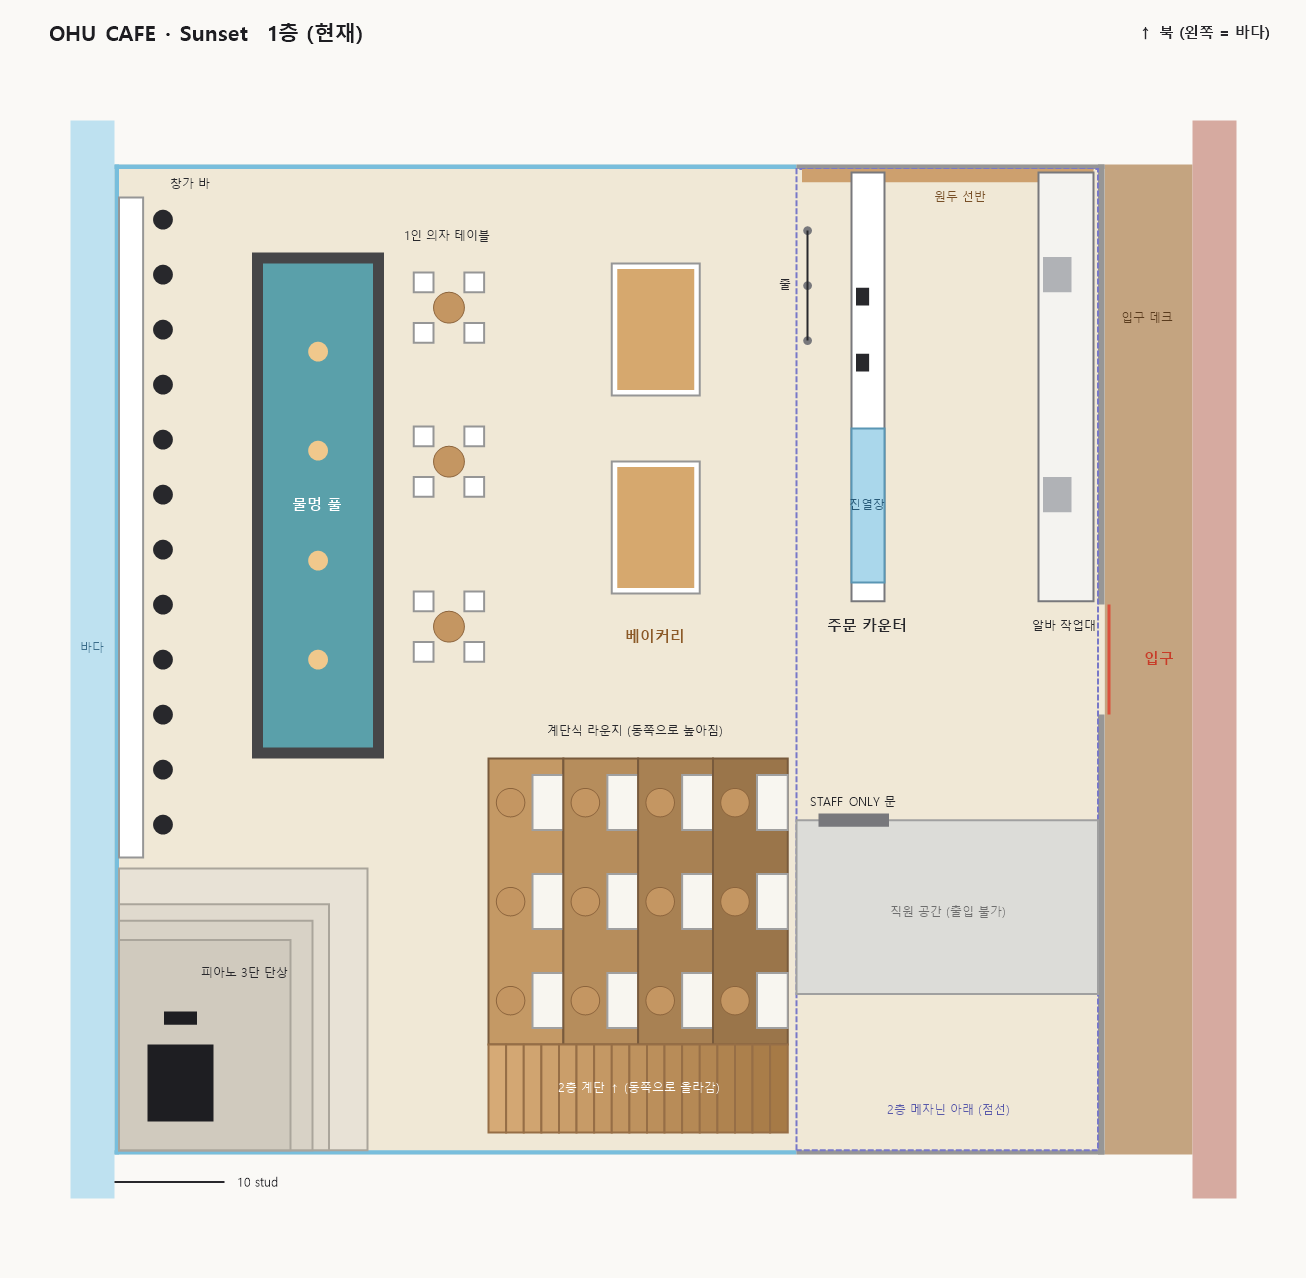
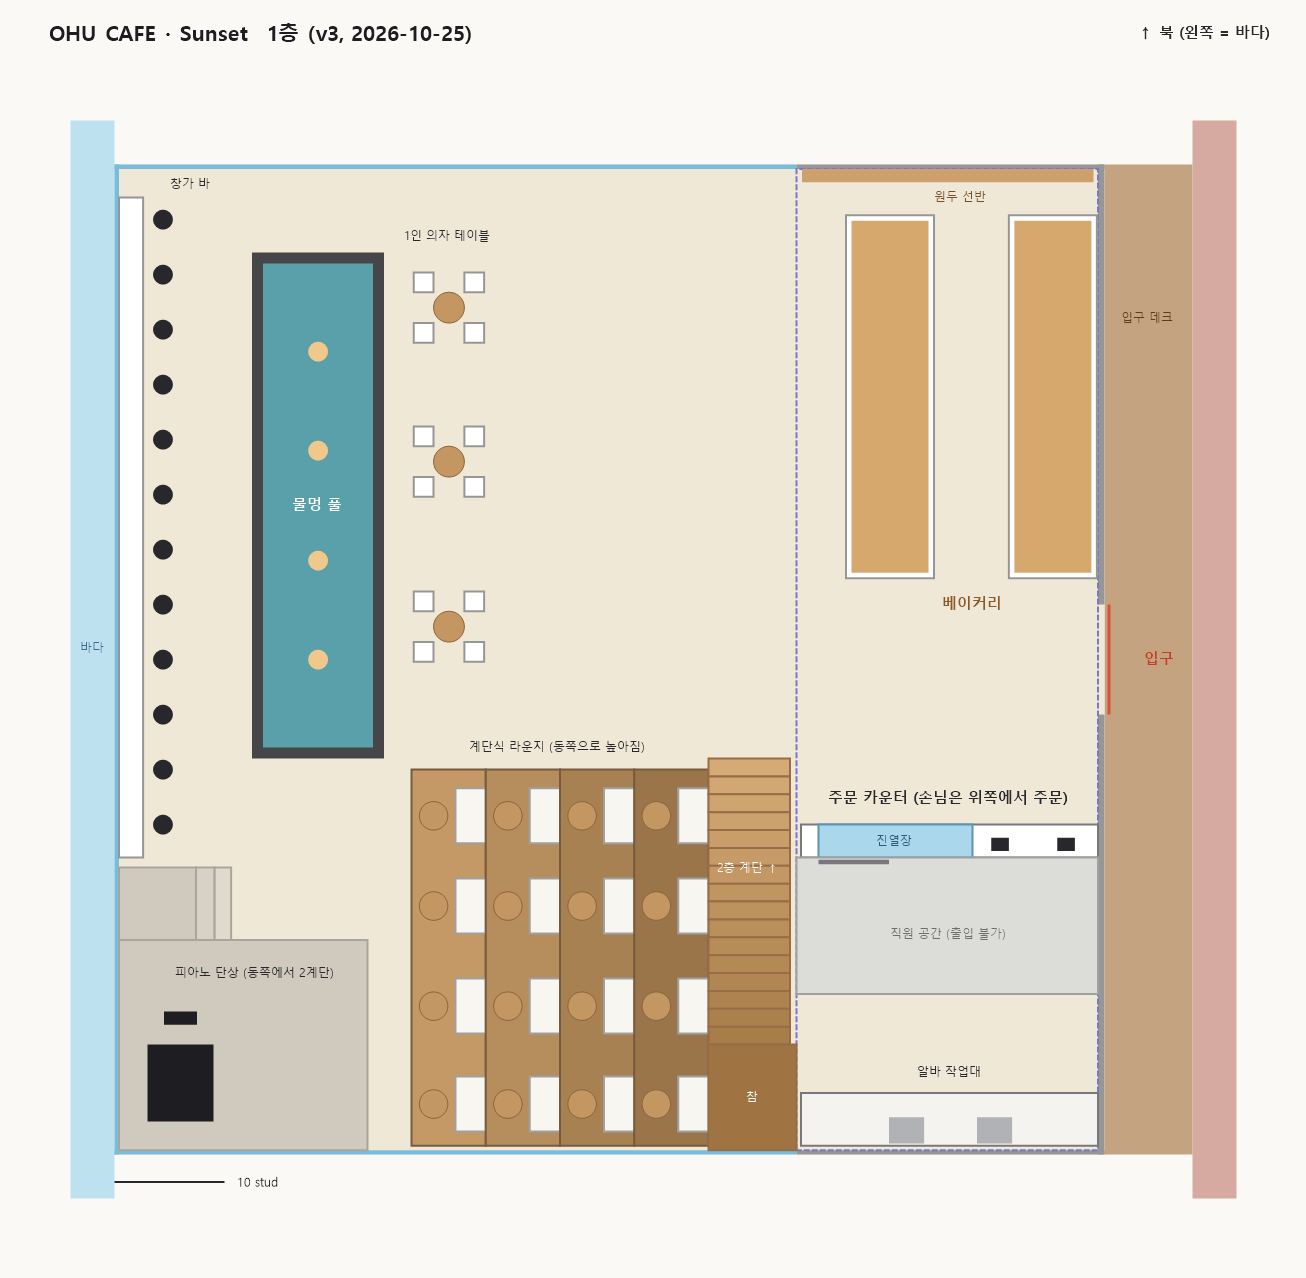
Beach cafe 1F layout v3 from the user's plan (D-229)

diff --git a/docs/06_LOG/PROGRESS_BY_DATE.md b/docs/06_LOG/PROGRESS_BY_DATE.md
@@ -90,7 +90,7 @@
 - 놀이공원 앞 도시 공원 다듬기(D-183~D-202), 놀이공원 동쪽 벽을 인도 밖으로: 정문 양옆 벽 축소, 정문·공원 계단 4 서쪽 이동, 놀이터 이동(D-203). 공원 윗땅을 인도 높이로 올리고 보도블록 무늬, 3번 출구를 인도 높이로 올리고 구멍 정리(D-204). 공원 계단·아랫바닥도 보도블록, 서쪽 긴 화단 삭제, 가운데 원 0.5 더 낮추고 계단 고리(D-205). 분수 자리 구덩이, 아랫바닥 흰 회색, 옆벽 보도블록, 나무 이음새, 파라솔 삭제(D-206). 클럽 내부 검은 대리석, 땅과 벽 겹침 번쩍거림 수정, 2층 별 천장 삭제(D-207). 모바일 2인 전체 기능 테스트 통과(버스 클릭·📸 실제 저장은 기기 확인 필요), 성능 검토 PERFORMANCE.md §9. 성능 최적화 1차: 간판 합치기·그림자·터치(파트 17,180→14,628, GUI 1,460→534), VIP 구매 창 자동 닫기(D-208). 광화문 이음줄·기와 줄과 공원 충돌 줄 합치기(광화문 1,144→524, 충돌 352→231, D-209). 놀이공원 서쪽 벽 밑 맨땅을 보도블록으로(D-210). 자작나무 줄기 이미지 빼고 기본 나무 재질(D-211).
 
 ## 2026-10-25
-- 클럽 엘리베이터 칸 회색 철판·손잡이·버튼(D-213). 문 위 글자판 삭제, 호출 버튼(D-214). 해변 카페 테이크아웃 창 삭제, 상아색 대리석 바닥(D-216). 스태프 문 삭제, 카운터 왼쪽 벽에 붙임(D-217). 빵 진열장 유리·방향(D-218). 4번 출구 해변 방향·편의점 서쪽 이동(D-219). 편의점 남쪽 끝까지 이동, 해변 쪽 작은 도로 삭제(D-220). 해변 카페 1층 배치 v2(D-221). 피아노 3단 단상(D-222). 피아노 바다 쪽·계단 반, 가건물 편의점과 선 맞춤(D-223). 바다 파스텔 고무오리, 클럽 배치도(D-226). 고무오리 1/8, 카페 1·2층 배치도(D-227). 오리가 실제 수면에 떠서 사람이 밀면 밀림(D-228). `feat/park-wall-1024`
+- 클럽 엘리베이터 칸 회색 철판·손잡이·버튼(D-213). 문 위 글자판 삭제, 호출 버튼(D-214). 해변 카페 테이크아웃 창 삭제, 상아색 대리석 바닥(D-216). 스태프 문 삭제, 카운터 왼쪽 벽에 붙임(D-217). 빵 진열장 유리·방향(D-218). 4번 출구 해변 방향·편의점 서쪽 이동(D-219). 편의점 남쪽 끝까지 이동, 해변 쪽 작은 도로 삭제(D-220). 해변 카페 1층 배치 v2(D-221). 피아노 3단 단상(D-222). 피아노 바다 쪽·계단 반, 가건물 편의점과 선 맞춤(D-223). 바다 파스텔 고무오리, 클럽 배치도(D-226). 고무오리 1/8, 카페 1·2층 배치도(D-227). 오리가 실제 수면에 떠서 사람이 밀면 밀림(D-228). 카페 1층 배치 v3(D-229). `feat/park-wall-1024`
 
 ## 지금 상태 (2026-10-23 끝)
 - **브랜치:** `feat/art-realistic-1022`. 푸시했고, 아직 병합하지 않았습니다.

diff --git a/docs/06_LOG/DECISIONS.md b/docs/06_LOG/DECISIONS.md
@@ -415,3 +415,5 @@ D-226 — (2026-10-25) Sea rubber ducks use Creator Store duck 284286111 (user p
 D-227 — (2026-10-25) Sea rubber ducks at 1/8 of the D-226 size (about 0.3-0.5 studs); the duck's CFrame is set again after parenting (a resized small union kept its old origin, so the drift moved it far away). Beach cafe 1F (current v2) and 2F mezzanine plan images: docs/02_WORLDS/images/beach_cafe_1F_plan.png, beach_cafe_2F_plan.png.
 
 D-228 — (2026-10-25) Rubber ducks float on the real sea surface and can be pushed (user: "바다에 떠다니는 것처럼, 사람이 밀면 밀리고 파도 따라"). The sea top is y -4 (terrain water), not the Base y -2.4, so they hovered. ParkRidesController moves each FloatDeco on the client: water height from a raycast (retried until the sea streams in), pivot reset under the duck body (the tiny union sat 3.2 studs off its pivot, so rocking swung it up and down), a weak pull toward its old drift path (the waves), any character within 2.4 studs pushes it out and along with its speed, damping, bounce back toward Base when it reaches the sand, slow turn toward where it floats. No network: each client runs it from the characters it sees.
+
+D-229 — (2026-10-25) Beach cafe 1F layout v3 from the user's edited plan (docs/02_WORLDS/images/beach_cafe_1F_plan_v3_user.png): two long bakery tables (8 x 33) where the counters were; the order counter turned across the room at z 76..79 right in front of the staff zone (pastry case west, tills east, customers order from the north), menu boards and ORDER & PICK UP sign moved onto the staff wall above it, queue posts removed; the 알바 work bench (BackCounter) along the north wall under the mezzanine (z 100.4..105.2); the stairs one straight flight along the staff wall (z 70 → 96, 16 steps) to a landing at the north glass that steps onto the mezzanine, glass rail on the lounge side; the lounge moved west to x -269 and down to the north glass with a fourth row; the piano stage fills the corner from z 86.5 with a block by the sea glass to z 79.9 and two 0.8 steps up from the east. Open: the work bench area is closed in (staff wall z 91.4, landing, outer walls), so the job counter cannot be reached yet.

diff --git a/docs/06_LOG/WORKLOG.md b/docs/06_LOG/WORKLOG.md
@@ -1245,3 +1245,20 @@ See ISSUE-MOBILE-001: 7 layout fixes, synced to Studio. The running test session
 | 전 | 후 |
 |---|---|
 | ![](images/2026-10-25/duck_hovering_before.png) | ![](images/2026-10-25/duck_on_water.jpg) |
+
+### 추가 (D-229) — 해변 카페 1층 배치 v3 (사용자 수정 배치도대로)
+- 베이커리: 카운터가 있던 자리에 긴 테이블 2개(8×33).
+- 주문 카운터: 직원 공간 바로 앞에 가로로(진열장 왼쪽, 계산대 오른쪽). 손님은 입구 쪽에서 주문. 메뉴판·ORDER & PICK UP 간판은 카운터 뒤 직원 벽 위로. 줄 서기 기둥 삭제.
+- 알바 작업대: 메자닌 아래 북쪽 벽을 따라.
+- 2층 계단: 직원 벽을 따라 일자로(16단) 올라가서 북쪽 유리 앞 계단참에서 메자닌으로. 라운지 쪽에 유리 난간.
+- 계단식 라운지: 서쪽으로 옮기고 북쪽 유리까지 늘려 4줄.
+- 피아노 단상: 구석 전체가 윗단, 바다 쪽 블록과 동쪽에서 올라가는 2계단.
+- 테스트: 캐릭터로 계단→계단참→메자닌, 피아노 계단→단상, 카운터 앞까지 걸어서 확인.
+- 남은 문제: 알바 작업대 공간이 직원 벽·계단참·외벽에 막혀 들어갈 수 없음(사용자에게 확인 중).
+
+| 사용자 배치도 | 새 배치도 |
+|---|---|
+| ![](../02_WORLDS/images/beach_cafe_1F_plan_v3_user.png) | ![](../02_WORLDS/images/beach_cafe_1F_plan.png) |
+
+![](images/2026-10-25/cafe_1F_v3_top.jpg)
+![](images/2026-10-25/cafe_1F_v3_view.jpg)
